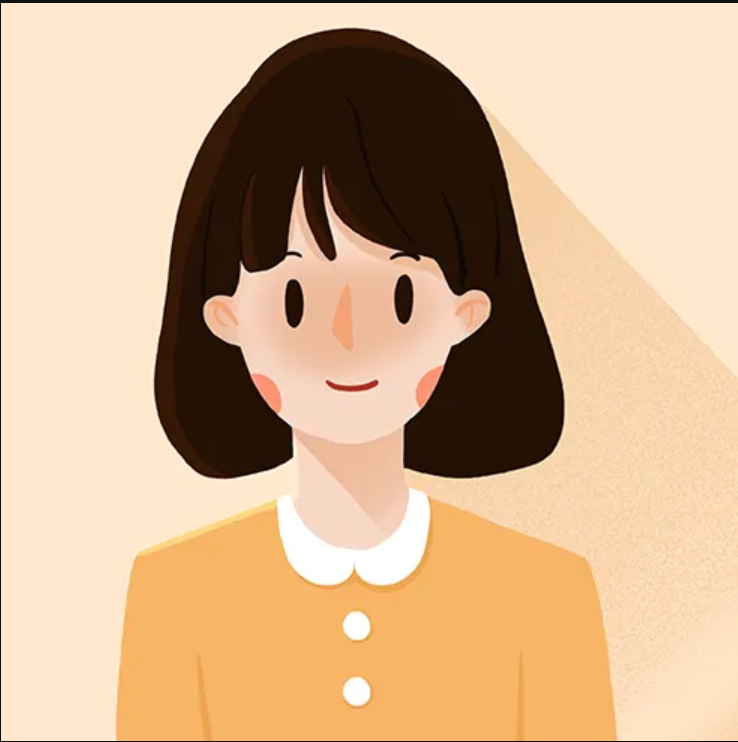
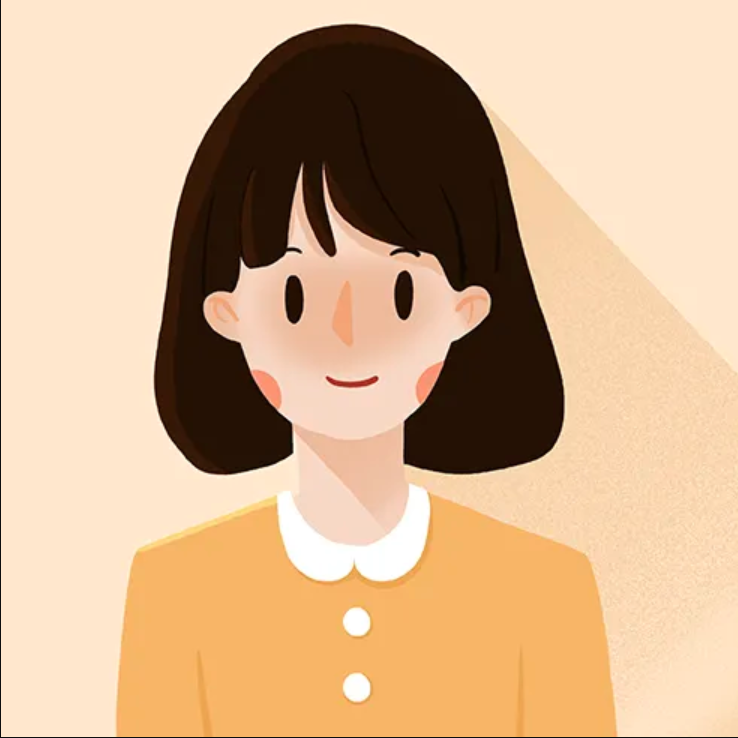
Add some features:
fix picture shadow problem

add more information to welcome

diff --git a/src/app/dashboard/welcome/page.tsx b/src/app/dashboard/welcome/page.tsx
@@ -1,8 +1,6 @@
-'use client';
-
-import { useEffect, useState } from 'react';
+"use client";
 import { UserCircle, Settings, Users } from 'lucide-react';
-import {useAuthContext} from "@/context/AuthContext";
+import { useAuthContext } from "@/context/AuthContext";
 
 export default function DashboardPage() {
     const { user, setUser } = useAuthContext();
@@ -16,14 +14,26 @@ export default function DashboardPage() {
                 </p>
             </div>
 
+            {/* Cam Fall 简介区域 */}
+            <div className="bg-white dark:bg-gray-800 rounded-lg shadow p-6 mb-8">
+                <h2 className="text-2xl font-semibold text-gray-800 dark:text-white mb-2">About Cam Fall</h2>
+                <p className="text-gray-600 dark:text-gray-300 text-sm leading-relaxed mb-2">
+                    <strong>Cam Fall</strong> It is an intelligent video surveillance system for nursing home safety scenarios, supporting real-time fall detection and emergency reminders.
+                </p>
+                <ul className="list-disc list-inside text-sm text-gray-700 dark:text-gray-300 space-y-1">
+                    <li>📹 AI-based real-time fall detection</li>
+                    <li>💼 Centralized management of user information</li>
+                    <li>⚠ Immediate alarm reminder in case of emergency</li>
+                    <li>🔐 Backstage role permission control</li>
+                </ul>
+            </div>
+
+
             <div className="bg-white dark:bg-gray-800 rounded-lg shadow p-6 mb-8">
                 <h2 className="text-2xl font-semibold text-gray-800 dark:text-white mb-2">User Information</h2>
                 <div className="text-gray-600 dark:text-gray-300">
                     <p><strong>Email:</strong> {user?.email}</p>
-                    <p><strong>Role:</strong> {
-                        Number(user?.userRole) === 1 ? "Admin" : "User"
-                        // 根据用户角色显示 Admin 或 User
-                    }</p>
+                    <p><strong>Role:</strong> {Number(user?.userRole) === 1 ? "Admin" : "User"}</p>
                 </div>
             </div>
 

diff --git a/src/app/dashboard/profile/page.tsx b/src/app/dashboard/profile/page.tsx
@@ -1,4 +1,3 @@
-import UserAddressCard from "@/components/user-profile/UserAddressCard";
 import UserInfoCard from "@/components/user-profile/UserInfoCard";
 import UserMetaCard from "@/components/user-profile/UserMetaCard";
 import { Metadata } from "next";
